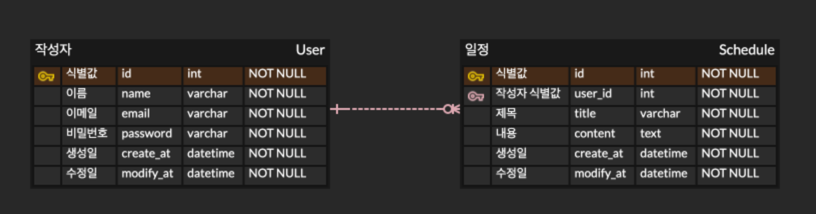
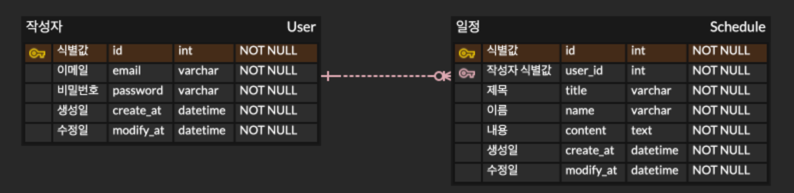
fix: 이름 속성 유저 테이블->일정 테이블로 이동

Changed region(s): [[0.0302, 0.0933, 0.9673, 0.9326], [0.1511, 0.7772, 0.3929, 0.8394], [0.0605, 0.7772, 0.1209, 0.8394]]

diff --git a/src/main/java/org/example/schedule/repository/ScheduleRepository.java b/src/main/java/org/example/schedule/repository/ScheduleRepository.java
@@ -1,5 +1,7 @@
 package org.example.schedule.repository;
 
+import jakarta.validation.constraints.NotBlank;
+import org.example.schedule.controller.request.dto.UpdateScheduleDto;
 import org.example.schedule.controller.response.dto.GetScheduleDetailDto;
 import org.example.schedule.controller.response.dto.GetSchedulesDto;
 import org.example.schedule.controller.response.dto.ScheduleDto;
@@ -10,10 +12,7 @@ import javax.sql.DataSource;
 import org.springframework.data.domain.Pageable;
 import java.time.LocalDate;
 import java.time.LocalDateTime;
-import java.util.HashMap;
-import java.util.List;
-import java.util.Map;
-import java.util.Optional;
+import java.util.*;
 
 @Repository
 public class ScheduleRepository {
@@ -24,12 +23,13 @@ public class ScheduleRepository {
         this.jdbcTemplate = new NamedParameterJdbcTemplate(dataSource);
     }
 
-    public void saveSchedule(Long userId, String title, String content, LocalDateTime now) {
-        String sql = "INSERT INTO schedule (user_id, title, content, create_at, modify_at) " +
-                "VALUES (:userId, :title, :content, :createAt, :modifyAt)";
+    public void saveSchedule(Long userId, String name, String title, String content, LocalDateTime now) {
+        String sql = "INSERT INTO schedule (user_id, name,title, content, create_at, modify_at) " +
+                "VALUES (:userId, :name,:title, :content, :createAt, :modifyAt)";
 
         Map<String, Object> params = Map.of(
                 "userId", userId,
+                "name", name,
                 "title", title,
                 "content", content,
                 "createAt", now,
@@ -44,12 +44,12 @@ public class ScheduleRepository {
         //하나의 StringBuilder 객체에 계속 append 하기 때문에 성능이 훨씬 좋음
         StringBuilder baseSql = new StringBuilder();
         //동적 쿼리를 만들기 쉽게하기 위해 where 1=1 추가
-        baseSql.append("FROM schedule s JOIN user u ON s.user_id = u.id WHERE 1=1 ");
+        baseSql.append("FROM schedule s WHERE 1=1 ");
 
         Map<String, Object> params = new HashMap<>();
 
         if (name != null && !name.isBlank()) {
-            baseSql.append("AND u.name LIKE :name ");
+            baseSql.append("AND s.name LIKE :name ");
             params.put("name", "%" + name + "%");
         }
 
@@ -68,7 +68,7 @@ public class ScheduleRepository {
         int total = jdbcTemplate.queryForObject(countSql, params, Integer.class);
 
         // 데이터 조회
-        String querySql = "SELECT s.id AS scheduleId, u.name, u.email, s.title " + baseSql +
+        String querySql = "SELECT s.id AS scheduleId, s.name, s.title " + baseSql +
                 "ORDER BY s.create_at DESC " +
                 "LIMIT :limit OFFSET :offset";
 
@@ -81,7 +81,6 @@ public class ScheduleRepository {
                 (rs, rowNum) -> new ScheduleDto(
                         rs.getLong("scheduleId"),
                         rs.getString("name"),
-                        rs.getString("email"),
                         rs.getString("title")
                 )
         );
@@ -97,7 +96,7 @@ public class ScheduleRepository {
 
     public Optional<GetScheduleDetailDto> findScheduleDetailById(Long scheduleId) {
         String sql = """
-            SELECT u.name, u.email, s.title, s.content, s.create_at, s.modify_at
+            SELECT s.name, u.email, s.title, s.content, s.create_at, s.modify_at
             FROM schedule s
             JOIN user u ON s.user_id = u.id
             WHERE s.id = :scheduleId
@@ -119,5 +118,49 @@ public class ScheduleRepository {
         );
 
         return results.stream().findFirst();
+    }
+
+    public Optional<Long> findUserIdByEmailAndPassword(String email, String password) {
+        String sql = "SELECT id FROM user WHERE email = :email AND password = :password";
+        Map<String, Object> params = Map.of("email", email, "password", password);
+
+        List<Long> results = jdbcTemplate.query(sql, params, (rs, rowNum) -> rs.getLong("id"));
+        return results.stream().findFirst();
+    }
+
+    public boolean isScheduleOwnedBy(Long scheduleId, Long userId) {
+        String sql = "SELECT COUNT(*) FROM schedule WHERE id = :scheduleId AND user_id = :userId";
+        Map<String, Object> params = Map.of("scheduleId", scheduleId, "userId", userId);
+        Integer count = jdbcTemplate.queryForObject(sql, params, Integer.class);
+        return count != null && count > 0;
+    }
+
+    public void updateSchedule(Long scheduleId, UpdateScheduleDto request, LocalDateTime now) {
+        StringBuilder sql = new StringBuilder("UPDATE schedule SET ");
+        Map<String, Object> params = new HashMap<>();
+        List<String> updates = new ArrayList<>();
+
+        if (request.name() != null) {
+            updates.add("name = :name");
+            params.put("name", request.name());
+        }
+        if (request.title() != null) {
+            updates.add("title = :title");
+            params.put("title", request.title());
+        }
+        if (request.content() != null) {
+            updates.add("content = :content");
+            params.put("content", request.content());
+        }
+
+        if (updates.isEmpty()) return; // 수정할 내용이 없으면 종료
+
+        sql.append(String.join(", ", updates));
+        sql.append(", modify_at = :modifyAt WHERE id = :scheduleId");
+
+        params.put("modifyAt", now);
+        params.put("scheduleId", scheduleId);
+
+        jdbcTemplate.update(sql.toString(), params);
     }
 }

diff --git a/src/main/java/org/example/schedule/repository/UserRepository.java b/src/main/java/org/example/schedule/repository/UserRepository.java
@@ -40,12 +40,11 @@ public class UserRepository {
         return results.stream().findFirst();
     }
 
-    public Long saveUser(String name, String email, String password, LocalDateTime now) {
-        String sql = "INSERT INTO user (name, email, password, create_at, modify_at) " +
-                "VALUES (:name, :email, :password, :createAt, :modifyAt)";
+    public Long saveUser(String email, String password, LocalDateTime now) {
+        String sql = "INSERT INTO user (email, password, create_at, modify_at) " +
+                "VALUES (:email, :password, :createAt, :modifyAt)";
 
         MapSqlParameterSource paramSource = new MapSqlParameterSource()
-                .addValue("name", name)
                 .addValue("email", email)
                 .addValue("password", password)
                 .addValue("createAt", now)

diff --git a/README.md b/README.md
@@ -18,7 +18,7 @@
   - 제목, 내용, 작성자, 비밀번호, 비밀번호 확인, 작성/수정일 입력받기
 - [x] 전체 일정 조회
   - 필터링 조건: 등록일, 작성자, 제목
-- [ ] 선택 일정 조회
+- [x] 선택 일정 조회
   - 일정의 고유 식별자를 사용하여 조회
 ### LV 2. 일정 수정 및 삭제
 - [ ] 선택한 일정 수정
